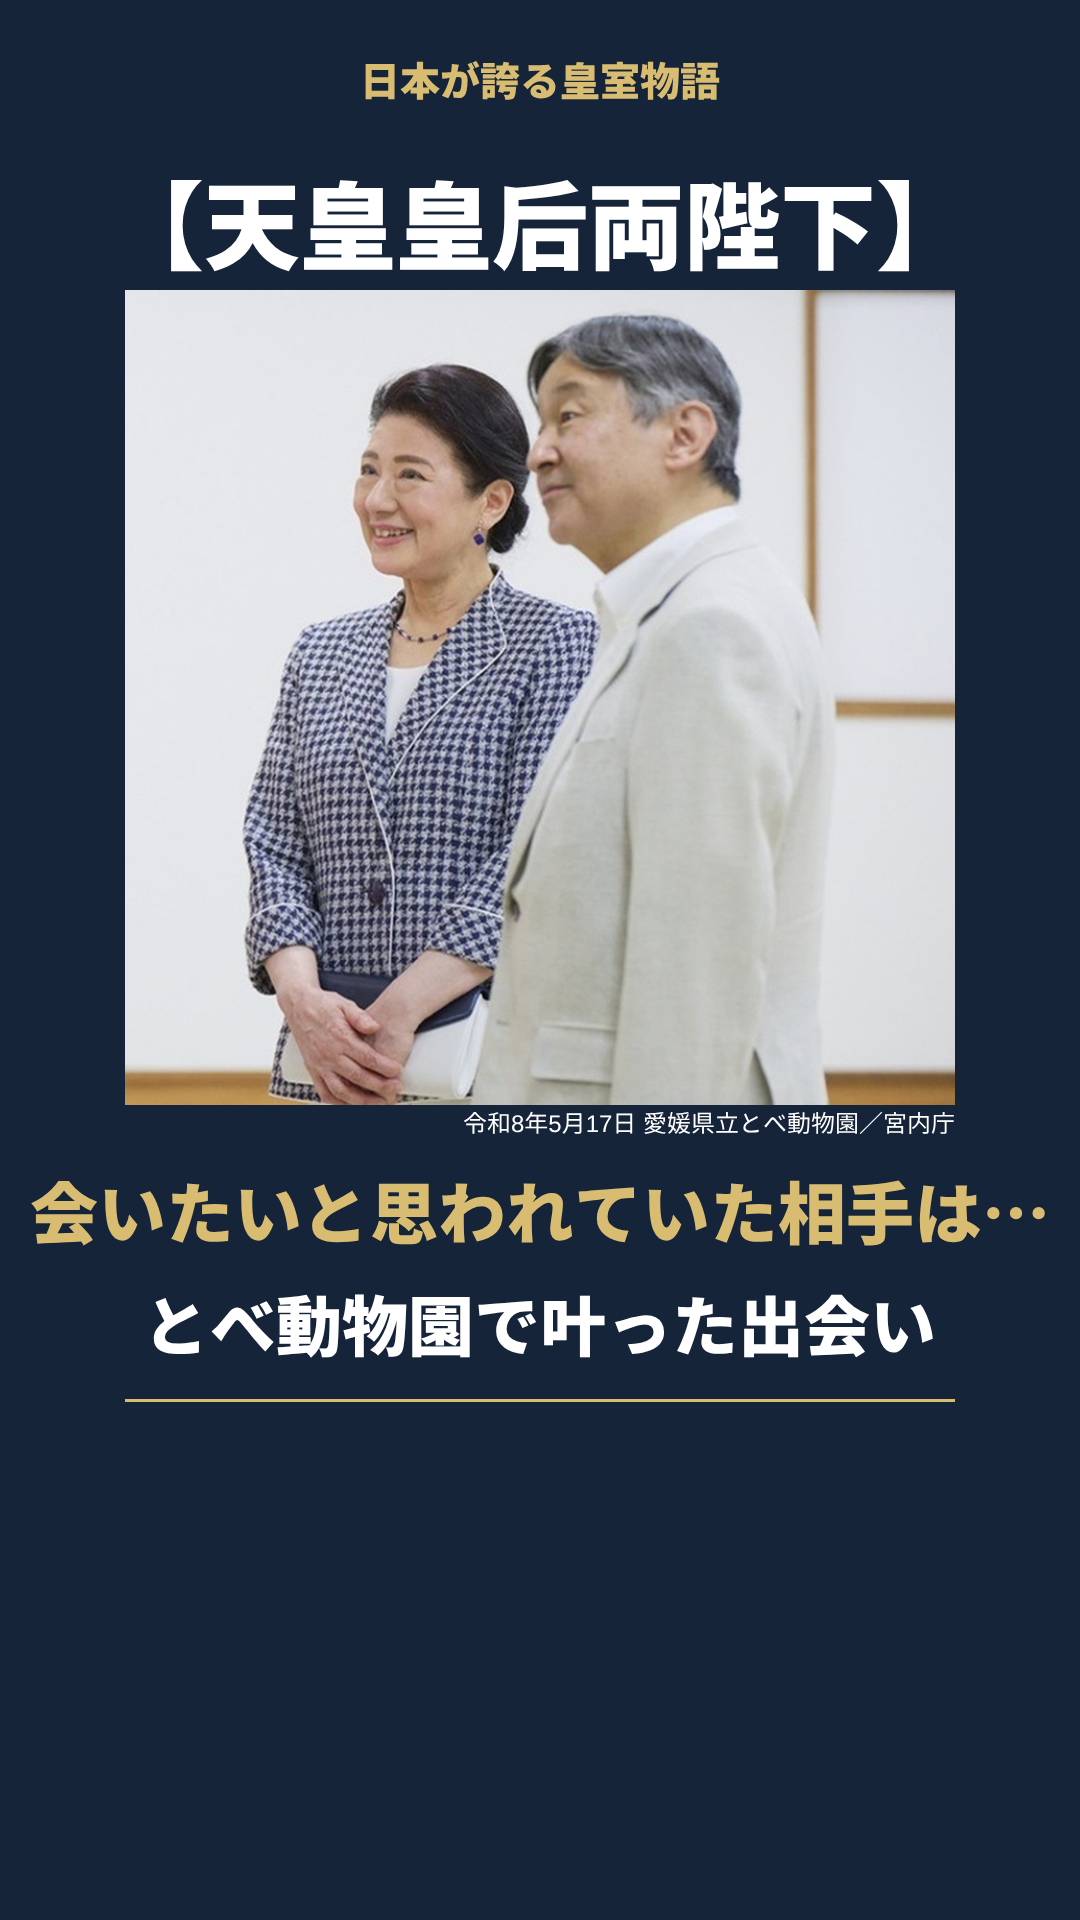
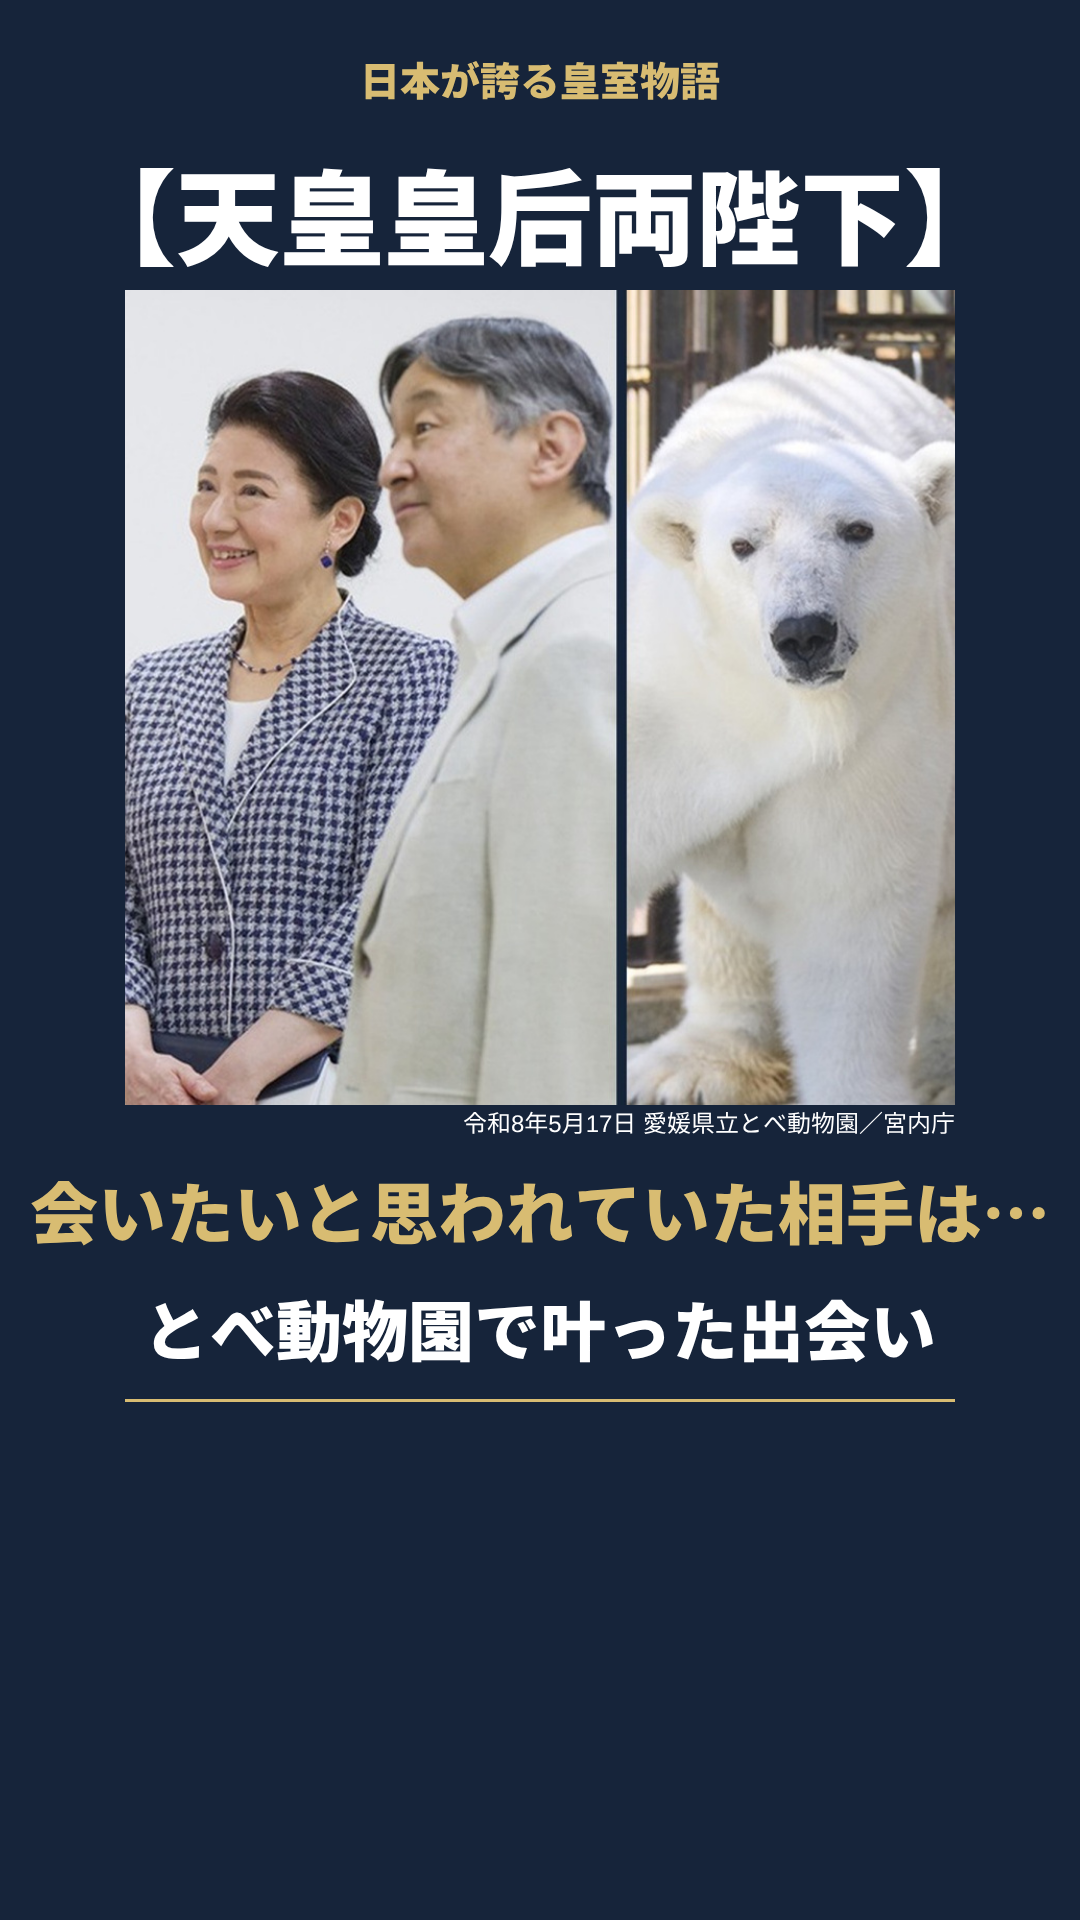
KB-20261127-01 表紙A/B
Claude-Session: https://claude.ai/code/session_01BJaPieHBuTRAAQkfULpzEX

Changed region(s): [[0.0917, 0.0625, 0.8861, 0.5938], [0.1528, 0.6562, 0.4889, 0.7188], [0.5194, 0.6562, 0.8556, 0.7188]]

diff --git a/projects/KB-20261127-01/qa_report.md b/projects/KB-20261127-01/qa_report.md
@@ -5,24 +5,24 @@
 | 項目 | 合否 | 実測・詳細 | 対応案 |
 |---|---|---|---|
 | 人物・日付・敬称・引用が facts.md と一致 | 合格 | facts.md あり / 未登録ID なし / 根拠IDの無い場面 なし |  |
-| 画像の人物名・撮影情報が ledger.csv と一致 | 不合格 | ['01-1:撮影年 令和8年5月17日 第76回全国植樹祭式典（愛媛県総合運動公園（松山市））(動物園の写真ではありません)≠2026-05-17', '01-1:撮影年 令和8年5月17日 第76回全国植樹祭式典（愛媛県総合運動公園（松山市））(動物園の写真ではありません)≠2026-05-17', '02-1:撮影年 令和8年5月17日 ご視察（愛媛県産業技術研究所窯業技術センター（砥部町））(動物園の写真ではありません)≠2026-05-17', '04-1:撮影年 令和8年5月17日 ご視察（愛媛県立とべ動物園（砥部町））≠2026-05-17', '04-2:撮影年 令和8年5月17日 ご視察（愛媛県立とべ動物園（砥部町））≠2026-05-17', '05-1:撮影年 令和8年5月17日 ご視察（愛媛県立とべ動物園（砥部町））≠2026-05-17', '06-1:撮影年 令和8年5月17日 第76回全国植樹祭式典（愛媛県総合運動公園（松山市））(動物園の写真ではありません)≠2026-05-17', '06-2:撮影年 令和8年5月17日 第76回全国植樹祭式典（愛媛県総合運動公園（松山市））(動物園の写真ではありません)≠2026-05-17', '06-2:撮影年 令和8年5月17日 第76回全国植樹祭式典（愛媛県総合運動公園（松山市））(動物園の写真ではありません)≠2026-05-17', '07-2:撮影年 令和8年5月17日 第76回全国植樹祭式典（愛媛県総合運動公園（松山市））(動物園の写真ではありません)≠2026-05-17'] | 人物名・キャプションを ledger の確認済みキャプションに合わせる |
+| 画像の人物名・撮影情報が ledger.csv と一致 | 合格 | 全場面一致(写真に写る人物そのものは要目視) |  |
 | ナレーション全文と字幕が一致 | 合格 | 全場面一致(誤字の有無は要目視) |  |
 | 揶揄・対立のNG語がない(第1-2章) | 合格 | なし |  |
-| 尺・解像度・fps・形式 | 合格 | 52.55秒 1080x1920 30.00fps h264/aac |  |
+| 尺・解像度・fps・形式 | 合格 | 52.71秒 1080x1920 30.00fps h264/aac |  |
 | 画面上の文字が Noto Sans JP | 合格 | 字幕 {'Noto Sans JP'} / 表示文字 NotoSansJP-Bold.ttf |  |
 | 字幕の大きさが全て同じ(規定140px・縦型は1行7字まで・第5章) | 合格 | なし |  |
 | 字幕の書式(太字・縁取り・影・色)が全て同じ(第5章) | 合格 | スタイル 1種類 / 行ごとの書式変更 なし |  |
 | 字幕が画面からはみ出していない(最大限の大きさで) | 合格 | はみ出し なし(画面幅 1080px・余白各30px) |  |
 | ナレーションが青山龍星・速度0.92・抑揚1.45 | 合格 | speaker_id=13(/speakers から取得) speedScale=0.92 intonationScale=1.45 |  |
-| 第4章 切替間隔・最長表示・人物の割合・同一画像の回数 | 合格 | カット 13(目標15〜25) / 平均 4.04秒 / 最長 4.98秒(上限5.0) / 範囲外 なし / 人物・語る物が映る割合 100%(目標95%)・人物のみ 75%(75%以上) / 異なる画像 13枚(目標12) / 上限(1回)を超えた画像 なし |  |
+| 第4章 切替間隔・最長表示・人物の割合・同一画像の回数 | 不合格 | カット 14(目標15〜25) / 平均 3.76秒 / 最長 4.90秒(上限5.0) / 範囲外 なし / 人物・語る物が映る割合 100%(目標95%)・人物のみ 75%(75%以上) / 異なる画像 13枚(目標12) / 上限(1回)を超えた画像 {'A014': 2} | 画像を追加収集する(第3章)、場面の分け方を見直す |
 | 主役の位置が登録済み(ズーム・パンの開始位置) | 合格 | 未登録 なし |  |
-| 第4-2章 素材の豊富さ(隣接の重複・多様さ・図解の量) | 合格 | 隣り合う同じ画像 なし / 異なる画像÷カット数 1.00(目安0.6以上) / 図解・文字だけ 0.0秒(上限3秒) / 実写映像カット 0 |  |
+| 第4-2章 素材の豊富さ(隣接の重複・多様さ・図解の量) | 不合格 | 隣り合う同じ画像 ['07-1:A014'] / 異なる画像÷カット数 0.93(目安0.6以上) / 図解・文字だけ 0.0秒(上限3秒) / 実写映像カット 0 | 同じ行事の別の写真・実写映像を追加し、scenes.json の images に複数指定する(内容に合わない素材で水増ししない) |
 | 黒画面・無音・音割れ・BGM音量 | 合格 | 黒画面 なし / 無音 なし / ピーク -2.6dB / BGM はナレーションより約21dB低く(-16 vs -37 LUFS)(不自然なカットは要目視) |  |
-| 締めくくり(まとめ→問いかけ→コメントのお願い)と余韻(第1-4章) | 不合格 | 締めくくりの場面 ['06-1', '06-2', '07-1', '07-2'] / 最後の4場面に問いかけなし / 最後の言葉のあとの余韻 2.8秒(1.2秒以上) | 台本係が role=closing の場面(まとめ・意味づけ・問いかけ・コメントのお願い)を最後に加える |
+| 締めくくり(まとめ→問いかけ→コメントのお願い)と余韻(第1-4章) | 合格 | 締めくくりの場面 ['06-1', '06-2', '07-1', '07-2'] / 最後の4場面に問いかけあり / 最後の言葉のあとの余韻 2.8秒(1.2秒以上) |  |
 | ナレーションが「です・ます」調(第1-5章) | 合格 | すべて です・ます調 |  |
 | ナレーションと画像の一致の理由が全場面にある(第4-3章) | 合格 | 全場面あり(内容の妥当性は当てっこ係が目視) |  |
 | 「答えは」の前に前置きがある(第1-4章) | 合格 | なし |  |
 | 冒頭の疑問に本編で回答 | 合格 | question=0 answer=あり(回答内容の妥当性は要目視) |  |
 
 ## 実測値
-- 尺 52.55秒 / カット数 13 / 異なる画像 13枚 / 人物が映る割合 100% / 実写映像カット 0 / 図解 0.0秒
+- 尺 52.71秒 / カット数 14 / 異なる画像 13枚 / 人物が映る割合 100% / 実写映像カット 0 / 図解 0.0秒
